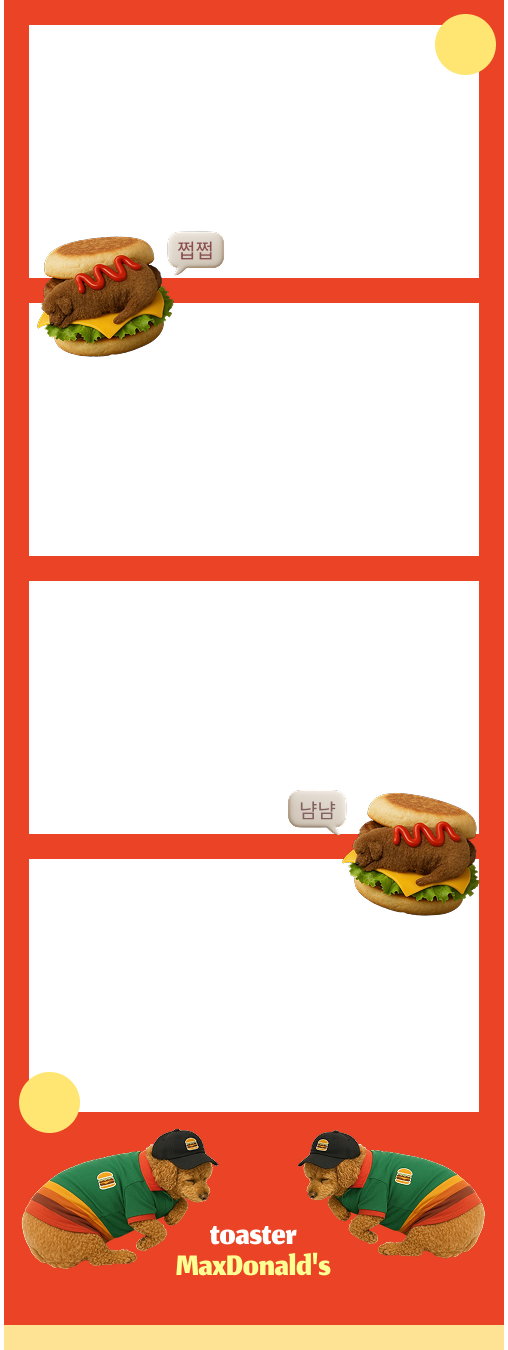
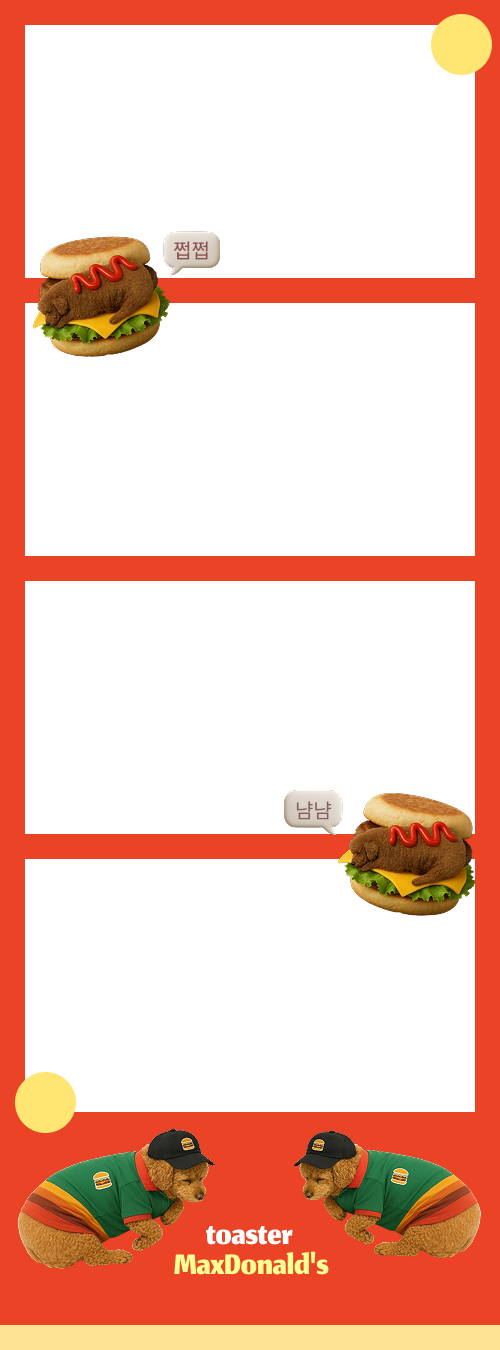
chore: 프레임 업데이트 및 워딩 변경

diff --git a/src/constants/frames.ts b/src/constants/frames.ts
@@ -6,18 +6,22 @@ import {
   grassFrame,
   greenFrame,
   maxFrame,
+  pinkFogFrame,
   pinkFrame,
+  toastFrame,
   whiteFrame,
 } from '@/assets/frames';
 
 export const frames: Record<string, string> = {
-  default: frame,
+  토스트: toastFrame,
   버건디: gdyFrame,
   무한도전: greenFrame,
   초록초록: grassFrame,
+  맥스날드: maxFrame,
+  y2k핑크: pinkFogFrame,
+  블랙: frame,
   블루베리: blueFrame,
   핑크: pinkFrame,
   버터: butterFrame,
   화이트: whiteFrame,
-  맥스날드: maxFrame,
 };

diff --git a/src/assets/frames/index.ts b/src/assets/frames/index.ts
@@ -6,4 +6,6 @@ export { default as grassFrame } from './grass.png';
 export { default as greenFrame } from './greenFrame.png';
 export { default as maxFrame } from './max.png';
 export { default as pinkFrame } from './pink.png';
+export { default as pinkFogFrame } from './pinkFog.png';
+export { default as toastFrame } from './toast.png';
 export { default as whiteFrame } from './white.png';
